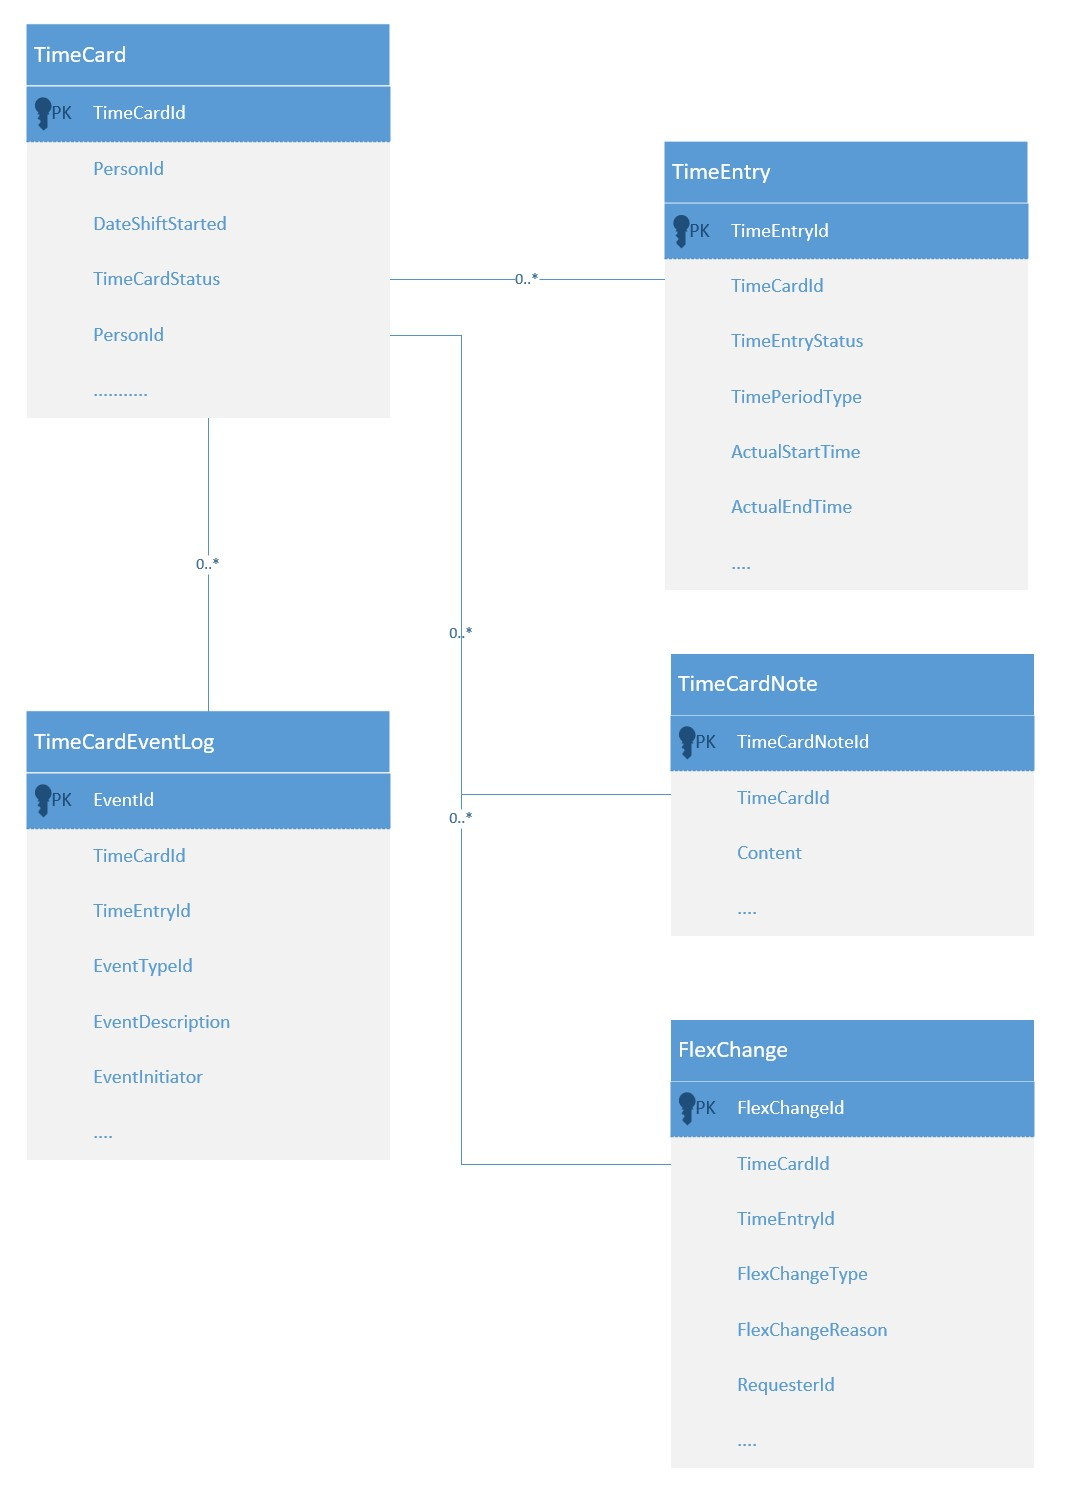
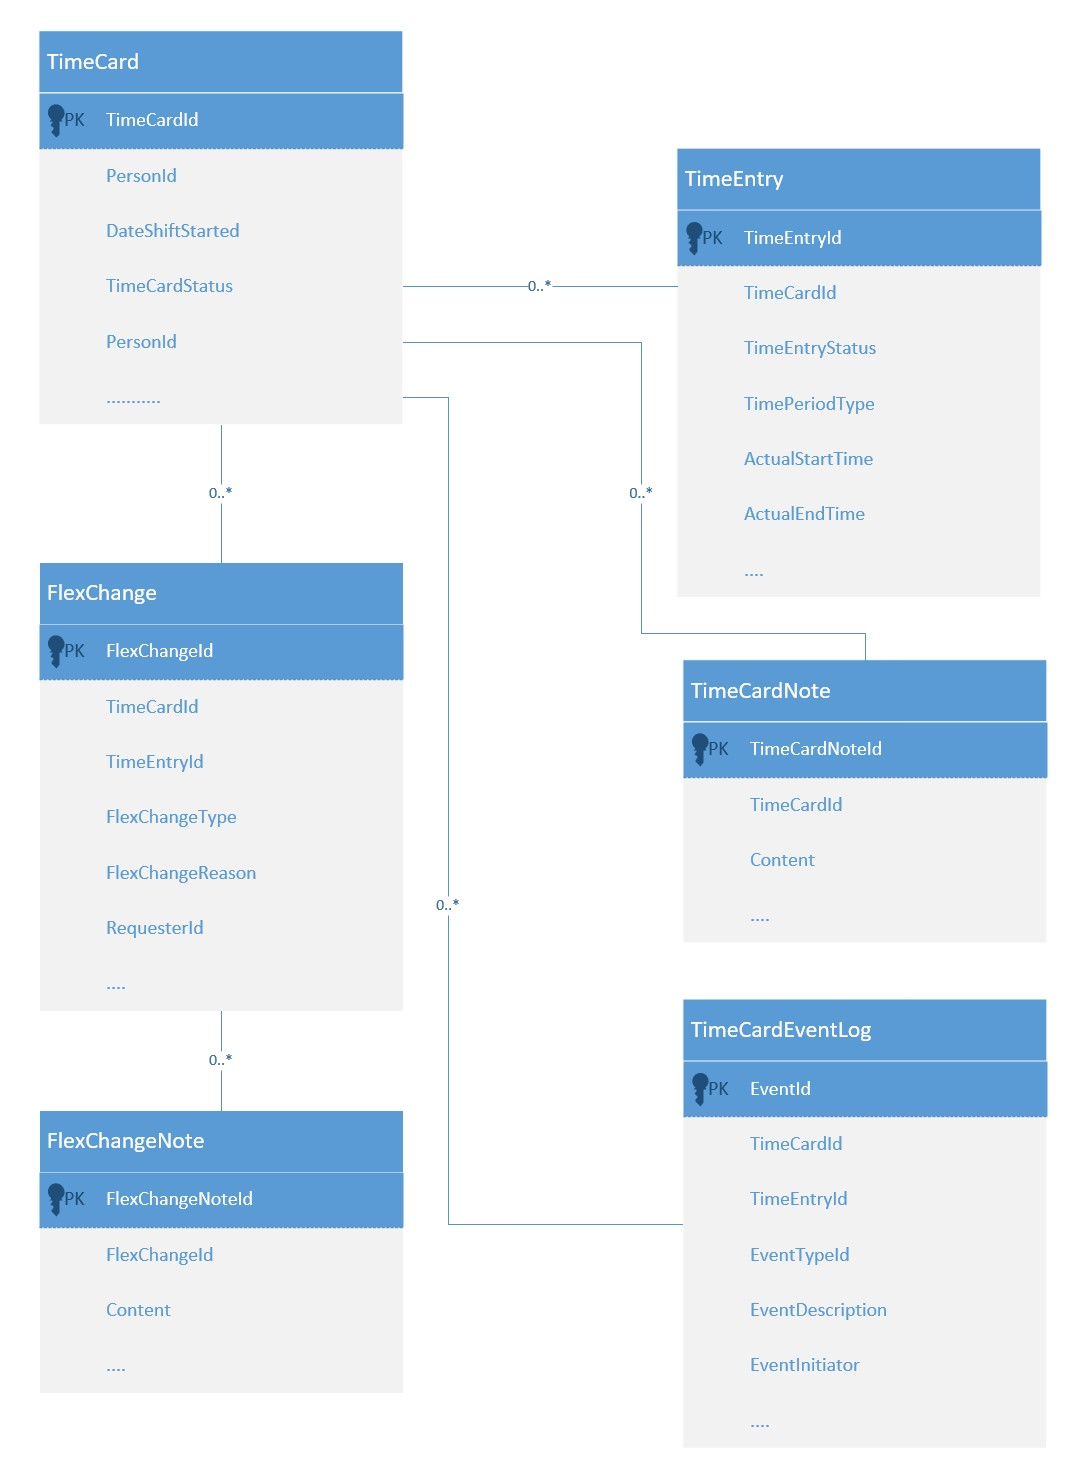
Re-draft TimeCard Data Model

diff --git a/docs/datamodel-definition.md b/docs/datamodel-definition.md
@@ -1,7 +1,9 @@
 
 # TimeCard Data Model
 
-##Overview
+## Overview
+
+The TimeCard container needs to persist the TimeCard 'containing' entity which manages the ownership and status of the time card and the children entities including TimeEntries, TimeCardNotes and FlexChanges.
 
 ![Callisto containers](./images/timecard-container-data-model.jpg)
 
@@ -24,7 +26,7 @@ A TimeCard instance is for a given person. It is the containing Entity for all c
 |     | RejectedOn     | timestamp |                        |
 |     | ApprovedBy     | long      |                        |
 |     | createdtadstp  | timestamp | Created timestamp      |
-|     | modifiedtadstp | timestamp | Last moified timestamp |
+|     | modifiedtadstp | timestamp | Last modified timestamp|
 |     | deleted        | bool      | Soft delete flag       |
 
 ### TimeEntry
@@ -44,7 +46,7 @@ A TimeCard instance is for a given person. It is the containing Entity for all c
 |     | PlannedEndTime   | timestamp |                               |
 |     | IsOverridden     | bool      |                               |
 |     | createdtadstp    | timestamp | Created timestamp             |
-|     | modifiedtadstp   | timestamp | Last moified timestamp        |
+|     | modifiedtadstp   | timestamp | Last modified timestamp       |
 |     | deleted          | bool      | Soft delete flag              |
 
 Used to record both planned and actual time. Encapsulates day and time (to the minute). In addition, the time entry captures the way that the time has been spent via the activity property
@@ -60,35 +62,46 @@ Used to record both planned and actual time. Encapsulates day and time (to the m
 
 Notes are associated with a TimeCard. Notes are used to communicate arbitrary information between individuals that relates to the TimeCard. Notes cannot exist on their own. 
 
-|Field|Type|Cardinality|Description|
-|--|--|--|--|
-| Note| 1..1 | text (256)| The note itself |
-| Note| 1..1 | text (256)| The note itself |
+| Key | Column Name    | Type      | Description             |
+| --- | -------------- | --------- | ----------------------- |
+|     |                |           |                         |
+| Key | TimeCardNoteID | long      |                         |
+|     | TimeCardId     | long      |                         |
+|     | content        | varchar   |                         |
+|     | createdtadstp  | timestamp | Created timestamp       |
+|     | modifiedtadstp | timestamp | Last modified timestamp |
+|     | deleted        | bool      | Soft delete flag        |
+|     |                |           |                         |
+|     |                |           |                         |
 
-### TimeLine
+### TimeCardEventLog
 
 **TODO** – confirm that this is a separate entity 
 
-### TimeCard
-
-
-|Field|Type|Cardinality|Description|
-|--|--|--|--|
-| TimeCardDate| 1..1 | date| The date that this timecard represents|
-| TimeCardStatus| 1..1 | Enumeration | Describes the approval status of the TimeCard |
-| Approver| 0..1 | foreign key| The person who approved this time card |
-| ApprovalDate| 0..1 | DateTime | When this timecard was approved |
-| Person| 1..1 | foreign key |The person who has spent the time that this TimeCard encapsulates|
-| TimeEntries| 0..* | set of foreign keys| Time Entries |
-| Notes| 0..* | set of foreign keys| Notes |
 
 ### FlexChange
 
-Encapsulates a change to one or more planned TimeEntry instances. It references TimeEntry by using the TimeEntry.id as a foreign key. There is a set of specific reasons that planned time can be changed and it must be approved. The FlexChange records this reason along with the new planned times for the associated TimeEntry instances.   
+A FlexChange entry records a change to one or more planned TimeEntry instances. It references TimeEntry by using the TimeEntry.id as a foreign key. There is a set of specific reasons that planned time can be changed and it must be approved. The FlexChange records this reason along with the new planned times for the associated TimeEntry instances.   
 
-A FlexChange can be created directly by a Shift worker on their TimeCard. A FlexChange can also come from the Scheduler container 
+A FlexChange can be created directly by an End user Shift worker on their TimeCard entry screen. A FlexChange can also come from the Scheduler container 
 
-### Enum
+| Key | Column Name      | Type      | Description                              |
+| --- | ---------------- | --------- | ---------------------------------------- |
+|     |                  |           |                                          |
+| Key | FlexChangeId     | long      |                                          |
+|     | TimeCardId       | long      |                                          |
+|     | TimeEntryId      | long      | Maybe zero or blank                      |
+|     | FlexChangeType   | enum      | WholesaleChange,Curtailment, ExtendShift |
+|     | EffectiveDate    | timestamp |                                          |
+|     | RequesterId      | int       | Who requested the flex change            |
+|     | ApproverId       | int       |                                          |
+|     | ApprovalDate     | timestamp |                                          |
+|     | FlexChangeReason | varchar   |                                          |
+|     | createdtadstp    | timestamp | Created timestamp                        |
+|     | modifiedtadstp   | timestamp | Last modified timestamp                  |
+|     | deleted          | bool      | Soft delete flag                         |
+
+### Enumerations
 
 **TimeCardStatus** 
 Describes the state that a TimeCard can be in. Covers the concept of planning time and then booking actual time. In addition, the status encapsulates TimeCard approval 
